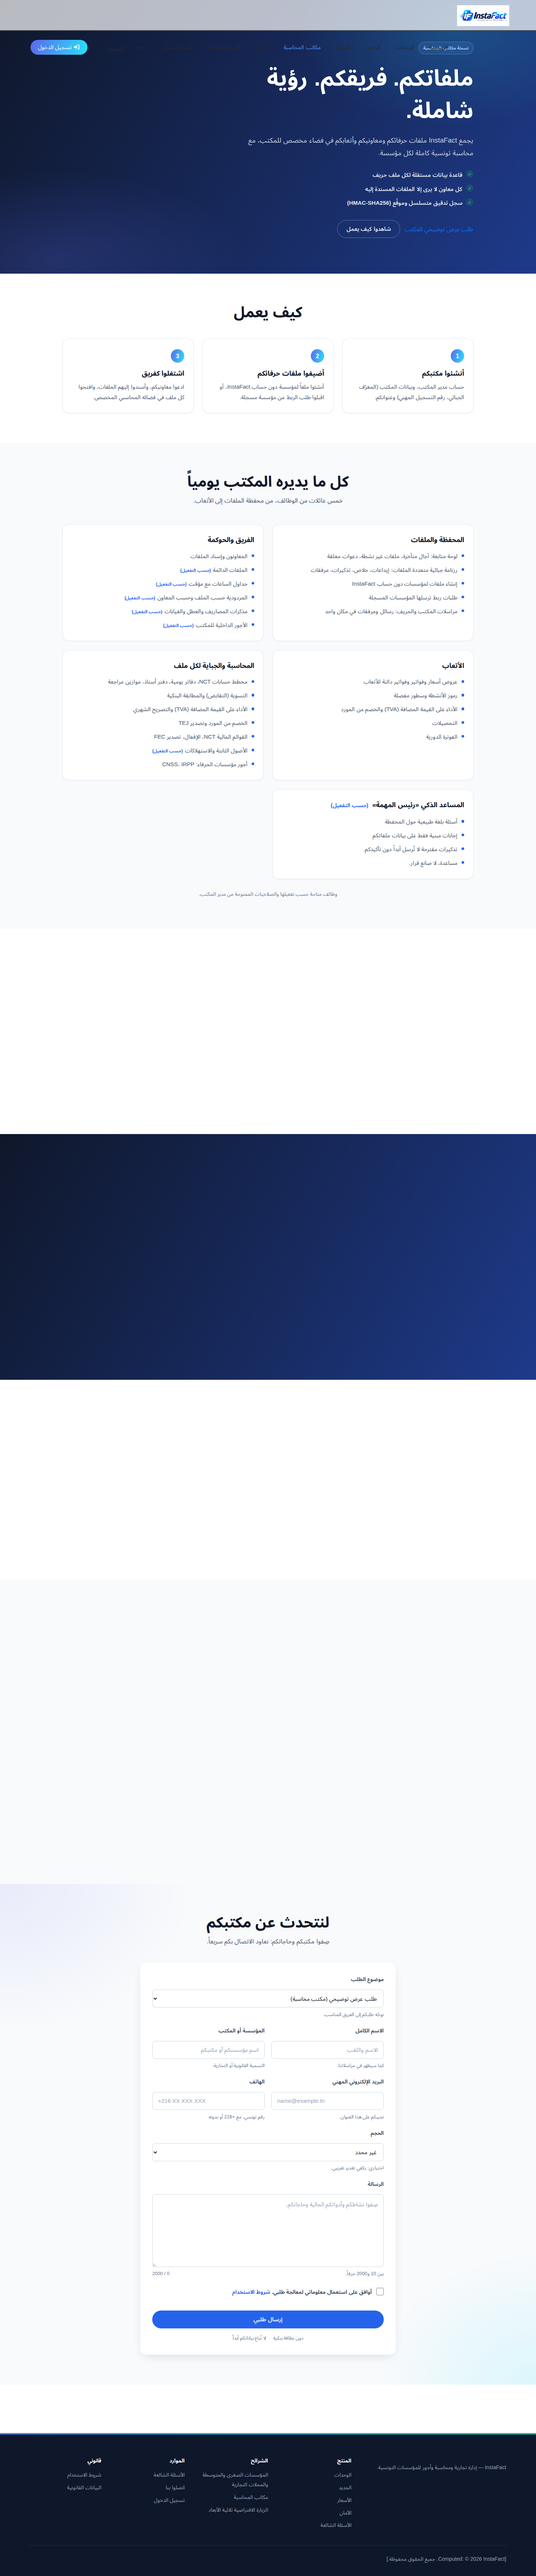
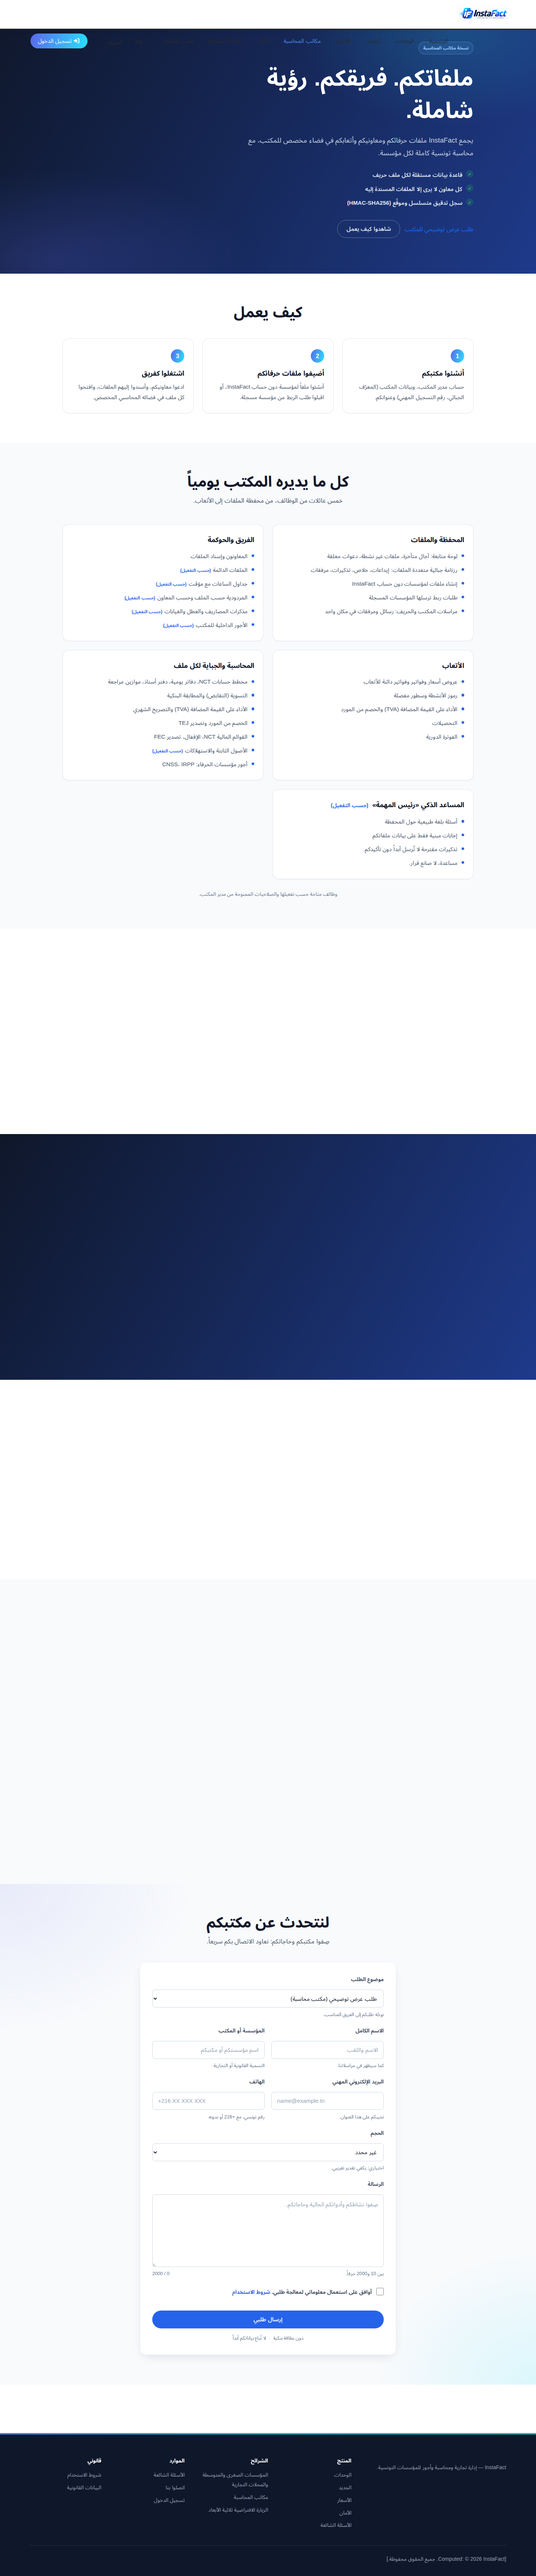
feat(landing): retire les noms d'outils IA des textes publics (Ollama, OpenRouter, Qwen, Gemma)
Les cartes « Local » / « Cloud en option », la FAQ confidentialité et la note
cabinets ne citent plus les outils ou modèles utilisés ; le message (données
hébergées chez vous, cloud activable par l'administrateur) est inchangé.
FR + AR. Captures de référence régénérées.

Vérifié : 169/169 specs landing, gardes OK, 28/28 e2e chromium.

Changed region(s): [[0.0, 0.0, 1.0, 0.0312]]

diff --git a/src/Frontend/factutrust-web/src/app/features/home/content/ar/home.ts b/src/Frontend/factutrust-web/src/app/features/home/content/ar/home.ts
@@ -143,7 +143,7 @@ export const HOME_AR: LandingHomeCopy = {
         tagline: 'مساعد يعمل في بياناتكم، على خوادمكم',
         points: [
           'أكثر من {toolsCount} أداة مهنية',
-          'نماذج محلية (Ollama) أو سحابية حسب الاختيار (OpenRouter)',
+          'نماذج محلية أو سحابية حسب الاختيار',
           'Studio: جداول واستمارات وسير عمل دون برمجة'
         ]
       },
@@ -206,11 +206,11 @@ export const HOME_AR: LandingHomeCopy = {
     subtitle: 'مساعد مهني، ونماذج مستضافة على خادمكم، وخيار سحابي قابل للتفعيل.',
     providers: [
       {
-        title: 'محلي (Ollama)',
-        text: 'نموذجا Qwen 2.5 وGemma 3 يعملان على خادمكم: بياناتكم لا تغادر.'
+        title: 'محلي',
+        text: 'نماذج تعمل على خادمكم: بياناتكم لا تغادر.'
       },
       {
-        title: 'سحابي اختياري (OpenRouter)',
+        title: 'سحابي اختياري',
         text: 'يفعّله المدير إذا أردتم نموذجاً أقوى.'
       }
     ],
@@ -561,7 +561,7 @@ export const HOME_AR: LandingHomeCopy = {
       {
         question: 'هل تُرسل بياناتي إلى ذكاء اصطناعي خارجي؟',
         answer:
-          'افتراضياً لا: تعمل النماذج محلياً (Ollama). ويمكن لمديركم تفعيل مزوّد سحابي (OpenRouter) عن علم بذلك.'
+          'افتراضياً لا: تعمل النماذج محلياً. ويمكن لمديركم تفعيل مزوّد سحابي عن علم بذلك.'
       },
       {
         question: 'كم عدد المستخدمين والأدوار؟',

diff --git a/src/Frontend/factutrust-web/src/app/features/home/content/fr/home.ts b/src/Frontend/factutrust-web/src/app/features/home/content/fr/home.ts
@@ -142,7 +142,7 @@ export const HOME_FR: LandingHomeCopy = {
         tagline: 'Un assistant qui agit dans vos données, sur vos serveurs',
         points: [
           'Plus de {toolsCount} outils métier',
-          'Modèles locaux (Ollama) ou cloud au choix (OpenRouter)',
+          'Modèles locaux ou cloud au choix',
           'Studio : tables, formulaires, workflows sans code'
         ]
       },
@@ -205,11 +205,11 @@ export const HOME_FR: LandingHomeCopy = {
     subtitle: 'Un assistant métier, des modèles hébergés sur votre serveur, une option cloud activable.',
     providers: [
       {
-        title: 'Local (Ollama)',
-        text: 'Modèles Qwen 2.5 et Gemma 3 exécutés sur votre serveur : vos données ne sortent pas.'
+        title: 'Local',
+        text: 'Des modèles exécutés sur votre serveur : vos données ne sortent pas.'
       },
       {
-        title: 'Cloud en option (OpenRouter)',
+        title: 'Cloud en option',
         text: 'Activable par l’administrateur si vous souhaitez un modèle plus puissant.'
       }
     ],
@@ -560,7 +560,7 @@ export const HOME_FR: LandingHomeCopy = {
       {
         question: 'Mes données sont-elles envoyées à une IA externe ?',
         answer:
-          'Par défaut non : les modèles tournent en local (Ollama). Un fournisseur cloud (OpenRouter) peut être activé par votre administrateur, en connaissance de cause.'
+          'Par défaut non : les modèles tournent en local. Un fournisseur cloud peut être activé par votre administrateur, en connaissance de cause.'
       },
       {
         question: 'Combien d’utilisateurs et de rôles ?',

diff --git a/src/Frontend/factutrust-web/src/app/features/home/content/ar/cabinets.ts b/src/Frontend/factutrust-web/src/app/features/home/content/ar/cabinets.ts
@@ -137,7 +137,7 @@ export const CABINETS_AR: LandingCabinetsCopy = {
         text: 'دخول JWT ومصادقة ثنائية (2FA).'
       }
     ],
-    aiNote: 'يمكن للمساعد أن يعمل على نموذج يُشغَّل على خوادمنا (Ollama)، مع خيار سحابي حسب الإعدادات.',
+    aiNote: 'يمكن للمساعد أن يعمل على نموذج يُشغَّل على خوادمنا، مع خيار سحابي حسب الإعدادات.',
     moreLink: 'اعرفوا المزيد عن الأمان'
   },
   offer: {

diff --git a/src/Frontend/factutrust-web/src/app/features/home/sections/ai-spotlight-section/ai-spotlight-section.component.ts b/src/Frontend/factutrust-web/src/app/features/home/sections/ai-spotlight-section/ai-spotlight-section.component.ts
@@ -4,7 +4,7 @@ import { LANDING_FACTS } from '../../content/landing-facts';
 import { LandingCopyBase } from '../../shared/landing-copy-base';
 
 /**
- * Spotlight IA (plan A.4.9) : section sombre, 2 fournisseurs (local Ollama / cloud OpenRouter),
+ * Spotlight IA (plan A.4.9) : section sombre, 2 modes d’hébergement (local / cloud en option),
  * capacités ({count} → outils IA), garde-fous et disponibilité. Textes : `t().home.ai`.
  */
 @Component({

diff --git a/src/Frontend/factutrust-web/src/app/features/home/content/fr/cabinets.ts b/src/Frontend/factutrust-web/src/app/features/home/content/fr/cabinets.ts
@@ -139,7 +139,7 @@ export const CABINETS_FR: LandingCabinetsCopy = {
       }
     ],
     aiNote:
-      'L’assistant peut fonctionner sur un modèle exécuté sur nos serveurs (Ollama), avec une option cloud selon la configuration.',
+      'L’assistant peut fonctionner sur un modèle exécuté sur nos serveurs, avec une option cloud selon la configuration.',
     moreLink: 'En savoir plus sur la sécurité'
   },
   offer: {

diff --git a/docs/landing/ar-copy-review.md b/docs/landing/ar-copy-review.md
@@ -158,9 +158,9 @@ porte d'activation de `landing.arabicEnabled` en production.
 | home#bvg3lx | Intelligence artificielle | الذكاء الاصطناعي | À relire |  |
 | home#l8btxr | Une IA qui connaît votre entreprise — et reste chez vous | ذكاء اصطناعي يعرف مؤسستكم — ويبقى لديكم | À relire |  |
 | home#19wanpc | Un assistant métier, des modèles hébergés sur votre serveur, une option cloud activable. | مساعد مهني، ونماذج مستضافة على خادمكم، وخيار سحابي قابل للتفعيل. | À relire |  |
-| home#x2rdg7 | Local (Ollama) | محلي (Ollama) | À relire |  |
-| home#x5pvwu | Modèles Qwen 2.5 et Gemma 3 exécutés sur votre serveur : vos données ne sortent pas. | نموذجا Qwen 2.5 وGemma 3 يعملان على خادمكم: بياناتكم لا تغادر. | À relire |  |
-| home#1f0slzg | Cloud en option (OpenRouter) | سحابي اختياري (OpenRouter) | À relire |  |
+| home#3rz0y8 | Local | محلي | À relire |  |
+| home#1epqd53 | Des modèles exécutés sur votre serveur : vos données ne sortent pas. | نماذج تعمل على خادمكم: بياناتكم لا تغادر. | À relire |  |
+| home#1oo5e94 | Cloud en option | سحابي اختياري | À relire |  |
 | home#14vk5n2 | Activable par l’administrateur si vous souhaitez un modèle plus puissant. | يفعّله المدير إذا أردتم نموذجاً أقوى. | À relire |  |
 | home#f390vk | Plus de {count} outils : créer un devis, retrouver une facture, expliquer un solde, importer une facture fournisseur depuis une photo. | أكثر من {count} أداة: إنشاء عرض أسعار، إيجاد فاتورة، شرح رصيد، استيراد فاتورة مزوّد من صورة. | À relire |  |
 | home#qwipox | L’assistant répond à partir de vos données et de règles de contrôle (grounding) ; il ne remplace pas votre comptable. | يجيب المساعد انطلاقاً من بياناتكم وقواعد ضبط (grounding)؛ وهو لا يعوّض محاسبكم. | À relire |  |
@@ -347,7 +347,7 @@ porte d'activation de `landing.arabicEnabled` en production.
 | home#ywnfun | InstaFact est-il conforme à la facturation électronique tunisienne (TEJ) ? | هل InstaFact مطابق للفوترة الإلكترونية التونسية (TEJ)؟ | À relire |  |
 | home#qxrvzl | InstaFact génère et valide le XML TEJ et produit les certificats de retenue à la source. La transmission dépend de votre habilitation auprès de la plateforme nationale. | يولّد InstaFact ملف XML TEJ ويتحقق منه وينتج شهادات الخصم من المورد. أما الإرسال فيتوقف على ترخيصكم لدى المنصة الوطنية. | À relire |  |
 | home#1q2iofy | Mes données sont-elles envoyées à une IA externe ? | هل تُرسل بياناتي إلى ذكاء اصطناعي خارجي؟ | À relire |  |
-| home#1d3q22l | Par défaut non : les modèles tournent en local (Ollama). Un fournisseur cloud (OpenRouter) peut être activé par votre administrateur, en connaissance de cause. | افتراضياً لا: تعمل النماذج محلياً (Ollama). ويمكن لمديركم تفعيل مزوّد سحابي (OpenRouter) عن علم بذلك. | À relire |  |
+| home#7x22gi | Par défaut non : les modèles tournent en local. Un fournisseur cloud peut être activé par votre administrateur, en connaissance de cause. | افتراضياً لا: تعمل النماذج محلياً. ويمكن لمديركم تفعيل مزوّد سحابي عن علم بذلك. | À relire |  |
 | home#1igclmg | Combien d’utilisateurs et de rôles ? | كم عدد المستخدمين والأدوار؟ | À relire |  |
 | home#1zaoxw | {rolesCount} rôles (administrateur, comptable, commercial, caissier, magasinier, auditeur…). Le plan gratuit inclut plusieurs utilisateurs ; les plans payants n’ont pas de limite. | {rolesCount} دوراً (مدير، محاسب، مندوب مبيعات، أمين صندوق، أمين مخزن، مدقق…). تشمل الخطة المجانية عدة مستخدمين؛ أما الخطط المدفوعة فبلا حدود. | À relire |  |
 | home#m9hwj1 | Gérez-vous la paie tunisienne ? | هل تديرون الأجور التونسية؟ | À relire |  |
@@ -407,7 +407,7 @@ porte d'activation de `landing.arabicEnabled` en production.
 | cabinets#8fc4d6 | Chaque entrée est chaînée et signée (HMAC-SHA256) : toute altération est détectable. | كل مدخل متسلسل وموقّع (HMAC-SHA256): أي تعديل قابل للكشف. | À relire |  |
 | cabinets#qyh0vl | Authentification renforcée | مصادقة معززة | À relire |  |
 | cabinets#1gyp10m | Connexion JWT et double authentification (2FA). | دخول JWT ومصادقة ثنائية (2FA). | À relire |  |
-| cabinets#18ntq67 | L’assistant peut fonctionner sur un modèle exécuté sur nos serveurs (Ollama), avec une option cloud selon la configuration. | يمكن للمساعد أن يعمل على نموذج يُشغَّل على خوادمنا (Ollama)، مع خيار سحابي حسب الإعدادات. | À relire |  |
+| cabinets#17fumgo | L’assistant peut fonctionner sur un modèle exécuté sur nos serveurs, avec une option cloud selon la configuration. | يمكن للمساعد أن يعمل على نموذج يُشغَّل على خوادمنا، مع خيار سحابي حسب الإعدادات. | À relire |  |
 | cabinets#v8mphf | En savoir plus sur la sécurité | اعرفوا المزيد عن الأمان | À relire |  |
 | cabinets#std40m | Offre Cabinet — sur devis | عرض المكتب — حسب عرض الأسعار | À relire |  |
 | cabinets#csq60r | Une offre cabinet distincte des forfaits entreprise, adaptée au nombre de dossiers et de collaborateurs. | عرض للمكاتب مستقل عن صيغ المؤسسات، ملائم لعدد الملفات والمعاونين. | À relire |  |
